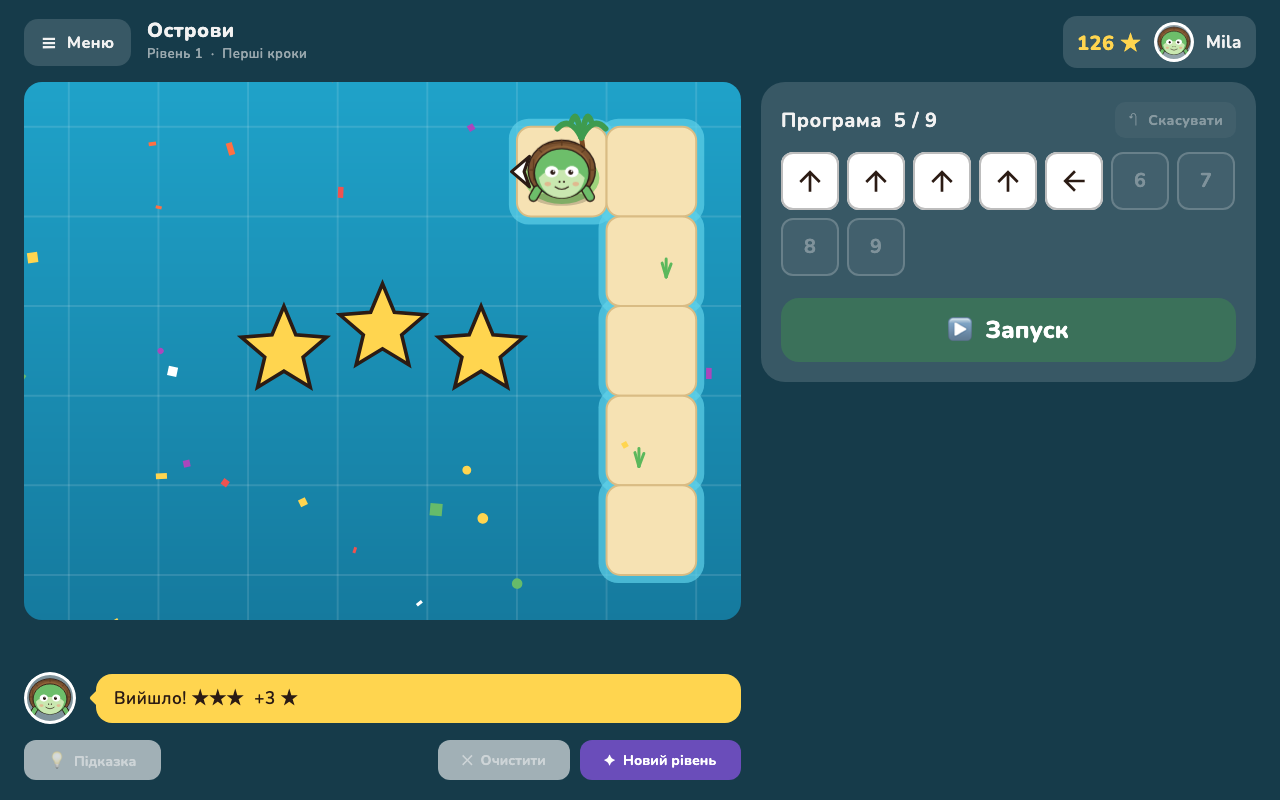
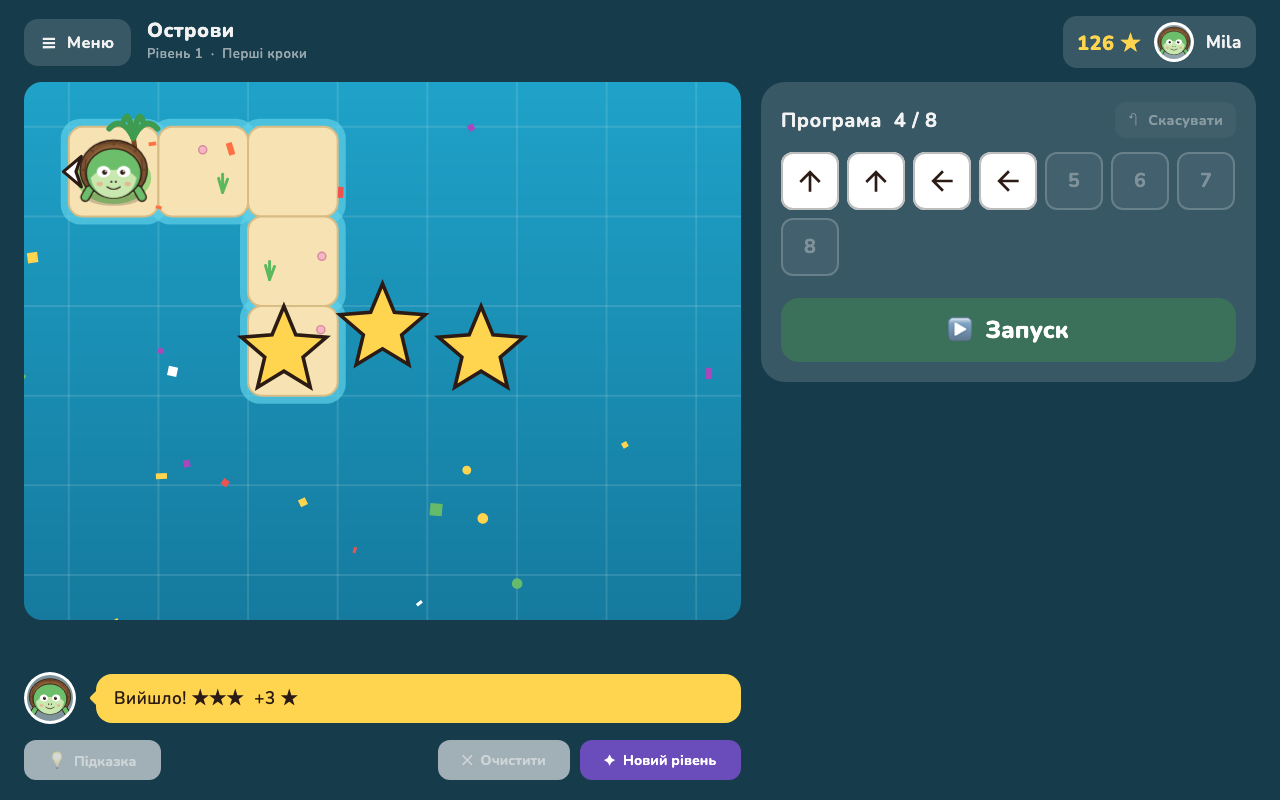
Store screenshots identical across languages
Mode cards share one height (intrinsic row), the block A hint always
takes two lines, and the snapshot harness seeds the level it solves
after the first win instead of drawing a random one, so the win frames
show the same level in every language. All 40 frames re-rendered.

diff --git a/app/src/commonMain/kotlin/codetrail/app/ui/PlayScreen.kt b/app/src/commonMain/kotlin/codetrail/app/ui/PlayScreen.kt
@@ -10,6 +10,8 @@ import androidx.compose.foundation.layout.Column
 import androidx.compose.foundation.layout.Row
 import androidx.compose.foundation.layout.Spacer
 import androidx.compose.foundation.layout.fillMaxSize
+import androidx.compose.foundation.layout.fillMaxHeight
+import androidx.compose.foundation.layout.IntrinsicSize
 import androidx.compose.foundation.layout.fillMaxWidth
 import androidx.compose.foundation.layout.height
 import androidx.compose.foundation.layout.padding
@@ -96,7 +98,8 @@ fun PlayScreen(app: AppState) {
             Spacer(Modifier.height(20.dp))
             Text(stringResource(Res.string.play_mode), fontSize = 22.sp, fontWeight = FontWeight.Bold, color = Color.White)
             Spacer(Modifier.height(10.dp))
-            Row(Modifier.fillMaxWidth(), horizontalArrangement = Arrangement.spacedBy(12.dp), verticalAlignment = Alignment.CenterVertically) {
+            // Intrinsic height so both mode cards are as tall as the one whose description wraps.
+            Row(Modifier.fillMaxWidth().height(IntrinsicSize.Min), horizontalArrangement = Arrangement.spacedBy(12.dp), verticalAlignment = Alignment.CenterVertically) {
                 ModeCard("🧩", stringResource(Res.string.mode_forward), stringResource(Res.string.mode_forward_desc), selected = mode == GameMode.FORWARD) { mode = GameMode.FORWARD }
                 ModeCard("🔍", stringResource(Res.string.mode_predict), stringResource(Res.string.mode_predict_desc), selected = mode == GameMode.PREDICT) { mode = GameMode.PREDICT }
                 Spacer(Modifier.weight(1f))
@@ -162,6 +165,7 @@ private fun ModeCard(icon: String, title: String, desc: String, selected: Boolea
     Row(
         Modifier
             .width(380.dp)
+            .fillMaxHeight()
             .clip(RoundedCornerShape(16.dp))
             .background(if (selected) Color.White else Panel)
             .clickable(onClick = onClick)

diff --git a/app/src/commonMain/kotlin/codetrail/app/ui/ProgramPanel.kt b/app/src/commonMain/kotlin/codetrail/app/ui/ProgramPanel.kt
@@ -434,7 +434,8 @@ private fun FunctionPanel(state: GameState, dnd: DragController, size: Int, edit
             ) { Text("+", color = BlockColor, fontWeight = FontWeight.ExtraBold, fontSize = (inner * 0.4f).sp) }
             if (!selected) {
                 Box(Modifier.height(inner.dp), contentAlignment = Alignment.CenterStart) {
-                    Text(stringResource(Res.string.block_hint), color = Ink.copy(alpha = 0.6f), fontSize = 13.sp, fontWeight = FontWeight.SemiBold, modifier = Modifier.padding(horizontal = 6.dp))
+                    // Two lines in every language so the panel keeps one height whether the hint wraps or not.
+                    Text(stringResource(Res.string.block_hint), color = Ink.copy(alpha = 0.6f), fontSize = 13.sp, fontWeight = FontWeight.SemiBold, minLines = 2, maxLines = 2, modifier = Modifier.padding(horizontal = 6.dp))
                 }
             }
         }

diff --git a/app/src/jvmMain/kotlin/codetrail/app/Snapshot.kt b/app/src/jvmMain/kotlin/codetrail/app/Snapshot.kt
@@ -95,8 +95,9 @@ fun main(args: Array<String>) {
                 // replay the same level: must not pay again
                 runBlocking { state.run() }
                 println("replay: payout=${state.payout} profileStars=${state.profile.progress.totalStars}")
-                // a solved level is locked: restart hands out a fresh level, solve that one too
-                state.restartLevel()
+                // a solved level is locked: a fresh level follows, solve that one too. Seeded so store
+                // screenshots come out identical in every language.
+                state.newLevel(seed = seed + 1)
                 val n = state.level
                 Solver.solve(n.grid, n.start, n.startDir, n.goal, n.commandSet)!!.let { state.program.addAll(it.program); state.function.addAll(it.function) }
                 runBlocking { state.run() }
